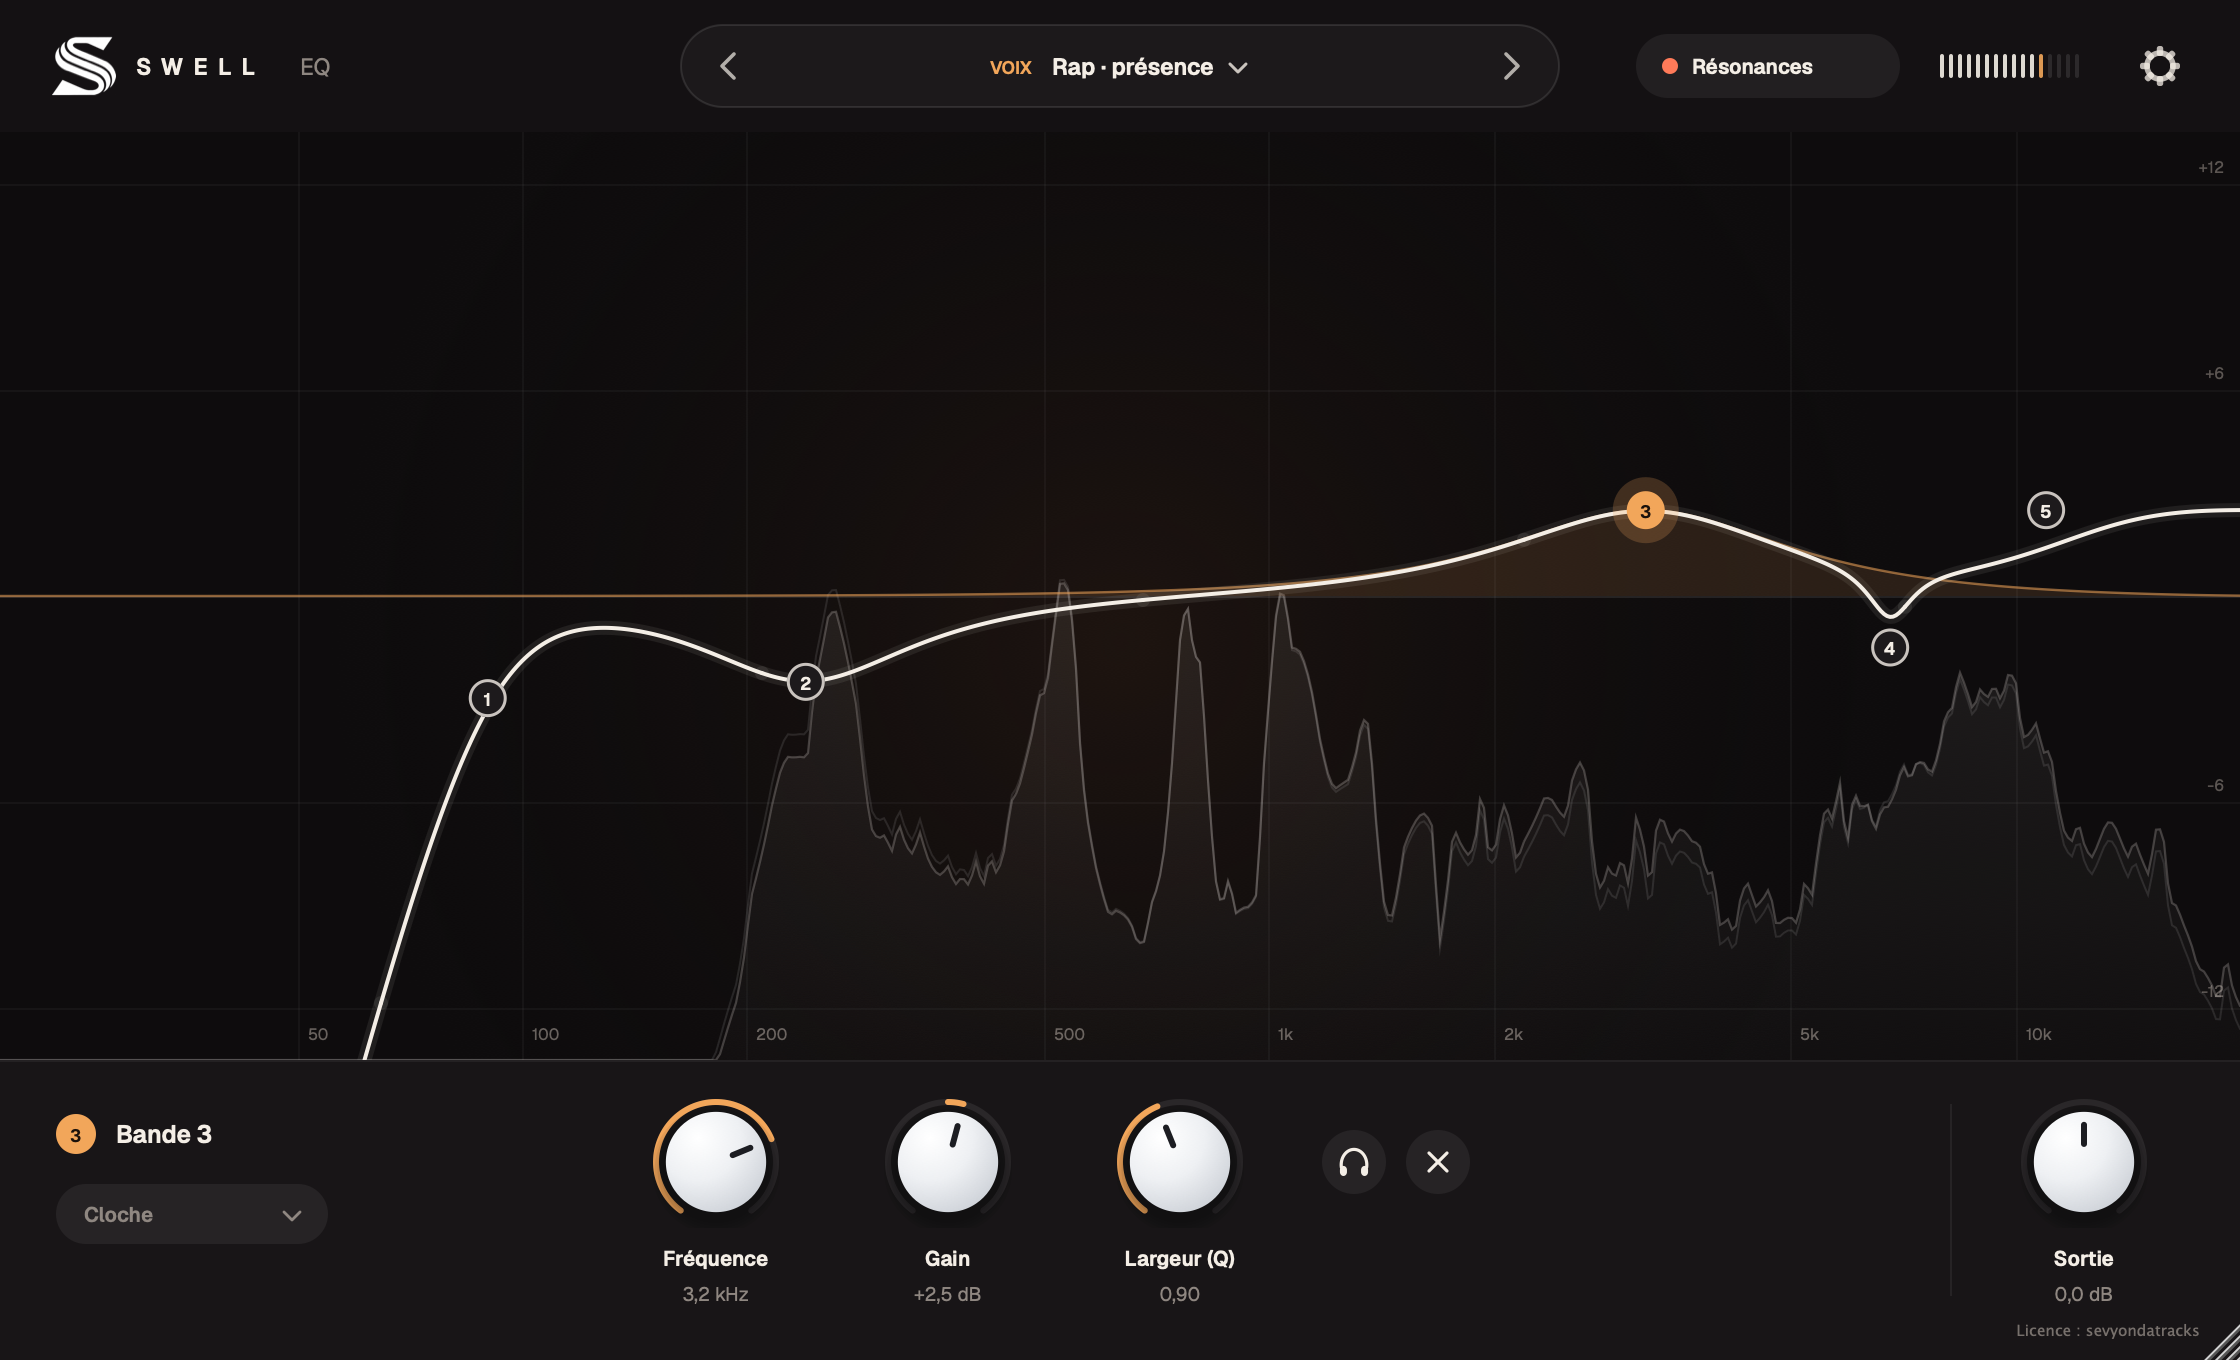
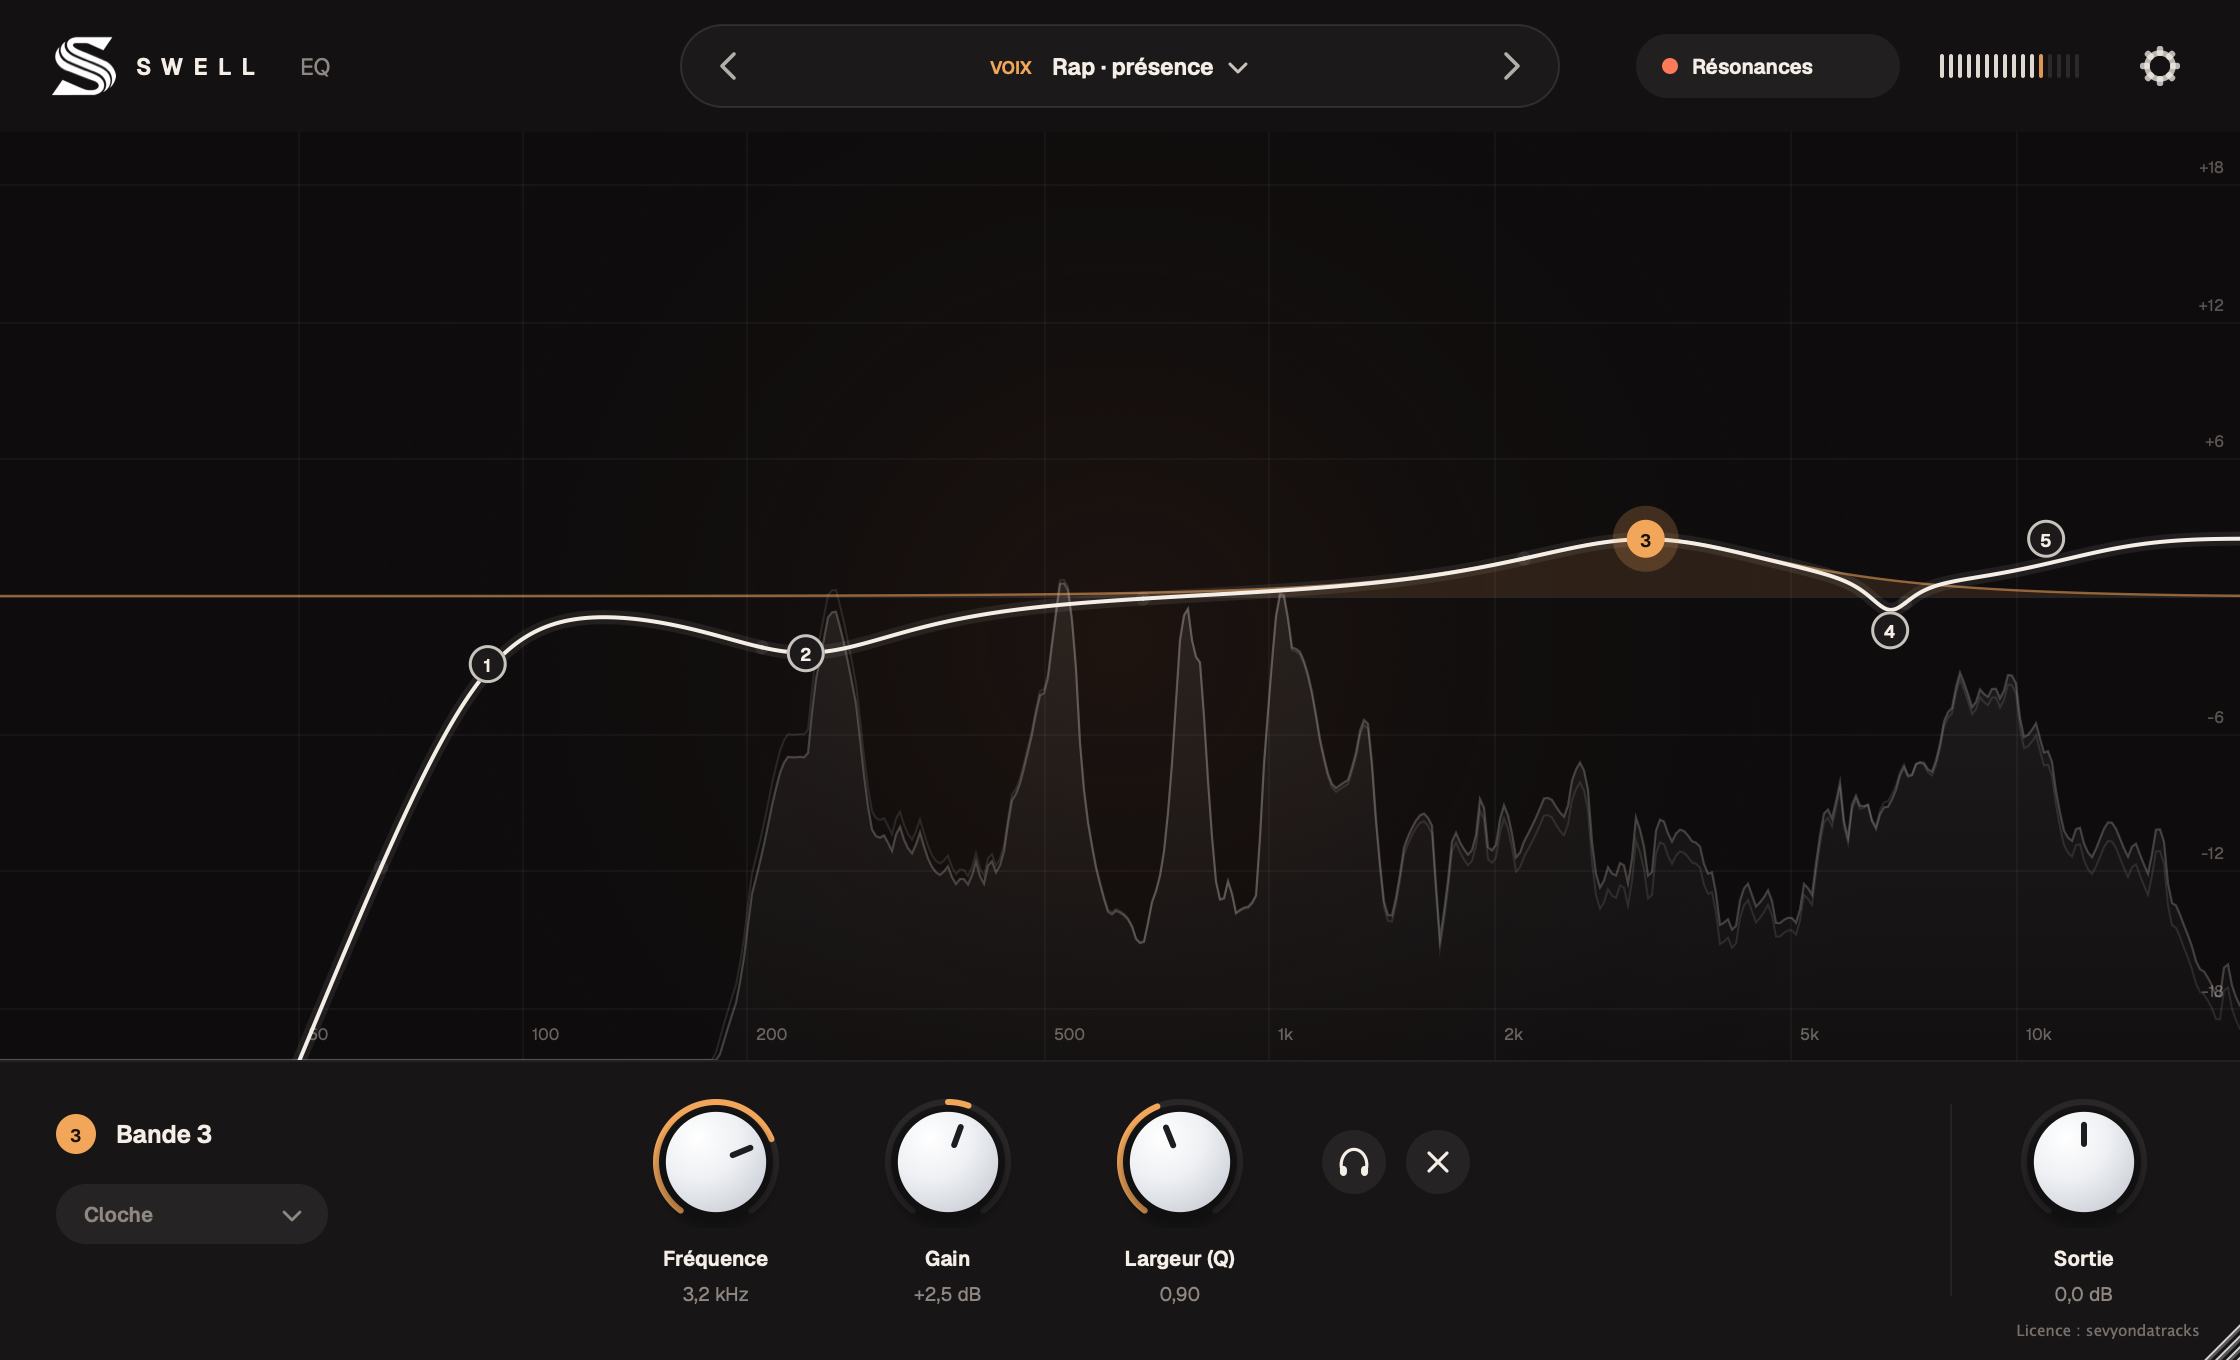
Gain des bandes limité à ±18 dB, courbe affichée en ±18 dB par défaut
L'ancien défaut ±12 cachait une partie du gain possible (±24).

diff --git a/Source/Editor.cpp b/Source/Editor.cpp
@@ -287,7 +287,7 @@ void CurveView::paintGrid (Graphics& g)
         g.setColour (colours::muted.withAlpha (0.7f));
         g.drawText (label, Rectangle<float> (x + 5.0f, h - 20.0f, 40.0f, 14.0f), Justification::centredLeft);
     }
-    const float step = range() <= 6.0f ? 3.0f : (range() <= 12.0f ? 6.0f : 12.0f);
+    const float step = range() <= 6.0f ? 3.0f : 6.0f;
     for (float db = -range(); db <= range() + 0.01f; db += step)
     {
         const float y = std::round (yForDb (db));
@@ -515,7 +515,7 @@ void CurveView::mouseDrag (const MouseEvent& e)
     if (hasGain (proc.band (dragging).type))
     {
         const float perPixel = range() / (plot().getHeight() * 0.5f - 12.0f);
-        float gain = jlimit (-24.0f, 24.0f, dragStartGain - delta.y * perPixel * scale);
+        float gain = jlimit (-18.0f, 18.0f, dragStartGain - delta.y * perPixel * scale);
         if (std::abs (gain) < 0.25f && ! e.mods.isShiftDown()) gain = 0.0f;   // petit cran à 0 dB
         auto* gp = param (dragging, "gain");
         gp->setValueNotifyingHost (gp->convertTo0to1 (gain));
@@ -544,7 +544,7 @@ void CurveView::mouseDoubleClick (const MouseEvent& e)
     BandType type = BandType::bell;
     if (f < 35.0f) type = BandType::lowCut;
     else if (f > 15000.0f) type = BandType::highCut;
-    const float gain = jlimit (-24.0f, 24.0f, std::round (dbForY (e.position.y) * 2.0f) / 2.0f);
+    const float gain = jlimit (-18.0f, 18.0f, std::round (dbForY (e.position.y) * 2.0f) / 2.0f);
     const int b = proc.addBand (type, jlimit (20.0f, 20000.0f, f), gain, (float) (type == BandType::bell ? 1.0 : butterworthQ));
     if (b >= 0) selection.set (b);
     repaint();
@@ -1082,7 +1082,7 @@ void Editor::showSettingsMenu()
     m.addSectionHeader (String::fromUTF8 ("Échelle de la courbe"));
     m.addItem (11, String::fromUTF8 ("± 6 dB"), true, proc.displayRange == 6);
     m.addItem (12, String::fromUTF8 ("± 12 dB"), true, proc.displayRange == 12);
-    m.addItem (13, String::fromUTF8 ("± 24 dB"), true, proc.displayRange == 24);
+    m.addItem (13, String::fromUTF8 ("± 18 dB"), true, proc.displayRange == 18);
     m.addSeparator();
     m.addItem (21, String::fromUTF8 ("Tout remettre à plat"));
     m.addSeparator();
@@ -1091,7 +1091,7 @@ void Editor::showSettingsMenu()
         if (r >= 1 && r <= 3) proc.analyserMode = r - 1;
         else if (r == 11) proc.displayRange = 6;
         else if (r == 12) proc.displayRange = 12;
-        else if (r == 13) proc.displayRange = 24;
+        else if (r == 13) proc.displayRange = 18;
         else if (r == 21) { proc.resetFlat(); selection.set (-1); }
         curve.repaint(); strip.repaint(); presetButton.repaint();
     });

diff --git a/Source/Processor.cpp b/Source/Processor.cpp
@@ -50,7 +50,7 @@ AudioProcessorValueTreeState::ParameterLayout Processor::createLayout()
             logRange (20.0f, 20000.0f), defaultFreqs[i],
             AudioParameterFloatAttributes().withLabel ("Hz").withStringFromValueFunction ([] (float v, int) { return formatFreq (v); })));
         group->addChild (std::make_unique<AudioParameterFloat> (ParameterID { ids::band (i, "gain"), 1 }, n + "gain",
-            NormalisableRange<float> (-24.0f, 24.0f), 0.0f,
+            NormalisableRange<float> (-18.0f, 18.0f), 0.0f,
             AudioParameterFloatAttributes().withLabel ("dB").withStringFromValueFunction ([] (float v, int) { return formatGain (v); })));
         group->addChild (std::make_unique<AudioParameterFloat> (ParameterID { ids::band (i, "q"), 1 }, n + "Q",
             logRange (0.1f, 18.0f), (float) butterworthQ,
@@ -308,7 +308,7 @@ void Processor::getStateInformation (MemoryBlock& dest)
     state.setProperty ("presetName", presetName, nullptr);
     state.setProperty ("presetCategory", presetCategory, nullptr);
     state.setProperty ("analyserMode", analyserMode, nullptr);
-    state.setProperty ("displayRange", displayRange, nullptr);
+    state.setProperty ("scale", displayRange, nullptr);
     state.setProperty ("showResonances", showResonances, nullptr);
     state.setProperty ("editorWidth", editorWidth, nullptr);
     state.setProperty ("editorHeight", editorHeight, nullptr);
@@ -325,7 +325,7 @@ void Processor::setStateInformation (const void* data, int size)
             presetName = tree.getProperty ("presetName", "Neutre").toString();
             presetCategory = tree.getProperty ("presetCategory", "").toString();
             analyserMode = jlimit (0, 2, (int) tree.getProperty ("analyserMode", 0));
-            displayRange = jlimit (6, 24, (int) tree.getProperty ("displayRange", 12));
+            displayRange = jlimit (6, 18, (int) tree.getProperty ("scale", 18));
             showResonances = tree.getProperty ("showResonances", false);
             editorWidth = tree.getProperty ("editorWidth", 0);
             editorHeight = tree.getProperty ("editorHeight", 0);

diff --git a/Tests/Check.cpp b/Tests/Check.cpp
@@ -303,7 +303,7 @@ static void testState()
     Processor a;
     a.loadFactoryPreset (3);
     a.setBand (6, make (BandType::highCut, 9000, 0, 1.2f, 2));
-    a.displayRange = 24;
+    a.displayRange = 6;
     MemoryBlock mb;
     a.getStateInformation (mb);
     Processor b;
@@ -315,7 +315,7 @@ static void testState()
         same = same && x.on == y.on && x.type == y.type && std::abs (x.freq - y.freq) < 0.01f && std::abs (x.gain - y.gain) < 0.001f
                && std::abs (x.q - y.q) < 0.001f && x.slope == y.slope;
     }
-    check (same && b.currentPresetName() == a.currentPresetName() && b.displayRange == 24, String::fromUTF8 ("Toutes les bandes, le nom du preset et l'affichage reviennent à l'identique"));
+    check (same && b.currentPresetName() == a.currentPresetName() && b.displayRange == 6, String::fromUTF8 ("Toutes les bandes, le nom du preset et l'affichage reviennent à l'identique"));
 
     const auto name = String ("Test EQCheck ") + String (Random::getSystemRandom().nextInt (100000));
     check (a.saveUserPreset (name), "Enregistrer un preset perso");

diff --git a/Source/Processor.h b/Source/Processor.h
@@ -34,7 +34,7 @@ public:
 
     // ---- Préférences d'affichage (sauvegardées avec le projet)
     int analyserMode = 0;          // 0 = avant + après, 1 = après seulement, 2 = désactivé
-    int displayRange = 12;         // échelle de la courbe : ±6, ±12 ou ±24 dB
+    int displayRange = 18;         // échelle de la courbe : ±6, ±12 ou ±18 dB (±18 = tout le gain possible)
     bool showResonances = false;
     int editorWidth = 0, editorHeight = 0;
 

diff --git a/README.md b/README.md
@@ -16,7 +16,7 @@ Fabricant : Swell Audio. JUCE 8 (copie partagée `../Swell-Reverse/JUCE`). Forma
 - Rangée du bas : réglages de la bande choisie (type, pente, fréquence, gain, Q, écoute en solo, suppression) et **Sortie**.
 - Types : cloche, plateau grave, plateau aigu, coupe-bas, coupe-haut (12 / 24 / 36 / 48 dB/oct, Q réglable), coupe-bande.
 - **Analyseur** en temps réel : spectre après l'égaliseur (rempli) et avant (trait fin), pente d'affichage +3 dB/oct.
-  Roue dentée : analyseur avant + après / après seulement / désactivé, échelle ±6 / ±12 / ±24 dB, tout remettre à plat.
+  Roue dentée : analyseur avant + après / après seulement / désactivé, échelle ±6 / ±12 / ±18 dB (gain des bandes : ±18 dB), tout remettre à plat.
 - **Résonances** : écoute le son quelques secondes (moyenne longue), repère les pics étroits qui dépassent nettement
   le spectre voisin, et les marque d'un point orange. Un clic sur un point ajoute une cloche qui l'atténue (gain et Q
   calculés d'après le pic) ; « Atténuer les N résonances » corrige tout d'un coup.
